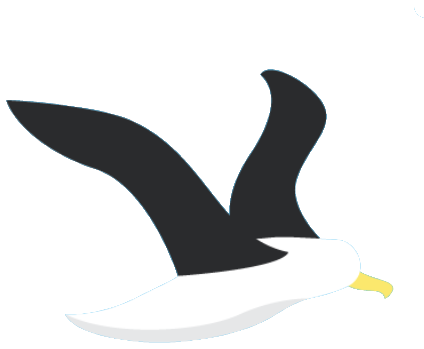
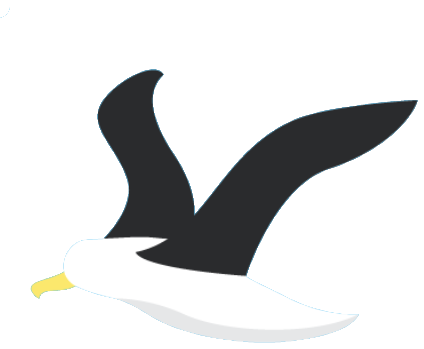
fix(birds): normalize all sprite frames to LEFT-facing, mirror when flying right
Frames bird-1, bird-3, bird-6 were drawn beak-on-right while bird-2, bird-4,
bird-5 had beak-on-left, causing the head to appear backwards within a single
bird's flap cycle. Pre-flipped the right-facing frames so all sprites point
left in source. Render now mirror-scales only when facing == 1.

diff --git a/src/components/site/Birds.tsx b/src/components/site/Birds.tsx
@@ -263,13 +263,13 @@ export default function Birds() {
         const bob = Math.sin(m.bobPhase) * m.bobAmp;
         const w = img.naturalWidth * m.scale;
         const h = img.naturalHeight * m.scale;
-        // Tilt is already in world-space (positive = nose up relative to travel).
-        // When facing left, nose-up still means negative canvas-Y on left side,
-        // which is what we get naturally since we mirror-scale AFTER rotate.
+        // Sprites are normalized LEFT-facing. Mirror only when bird flies right.
+        // Tilt is signed in world space; mirroring flips its visual sign correctly
+        // because we apply scale BEFORE rotate.
         ctx.save();
         ctx.translate(m.x, m.y + bob);
-        ctx.scale(m.facing, 1);
-        ctx.rotate(m.tilt);
+        if (m.facing === 1) ctx.scale(-1, 1);
+        ctx.rotate(m.facing * m.tilt);
         ctx.globalAlpha = 0.93;
         ctx.drawImage(img, -w / 2, -h / 2, w, h);
         ctx.restore();
